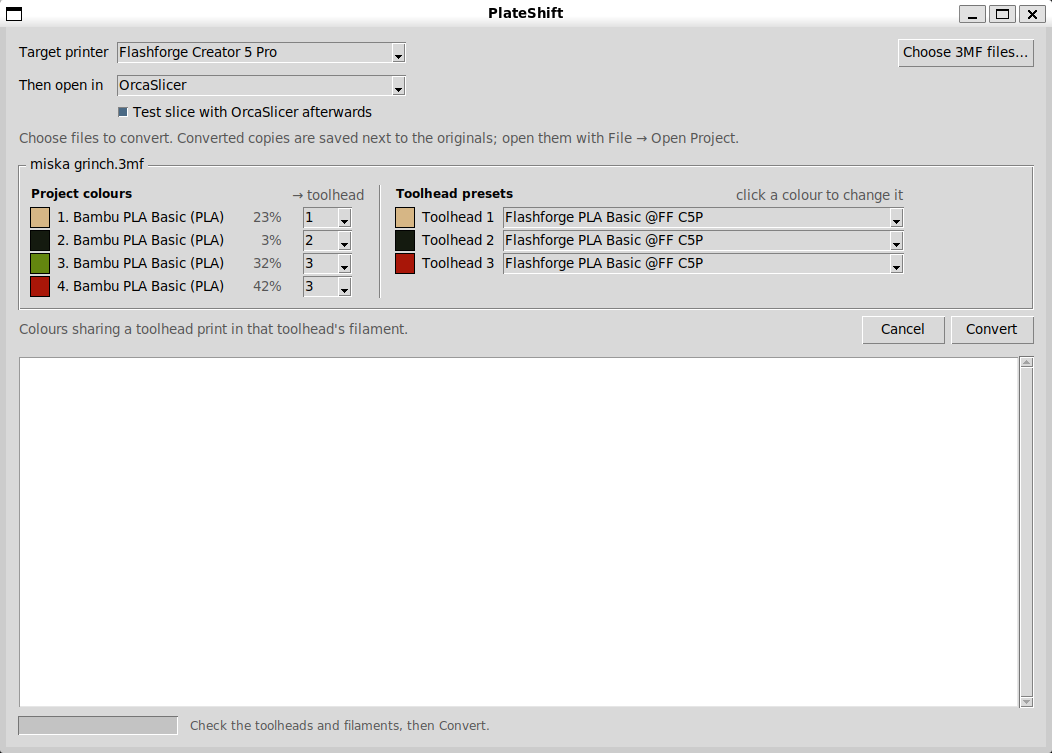
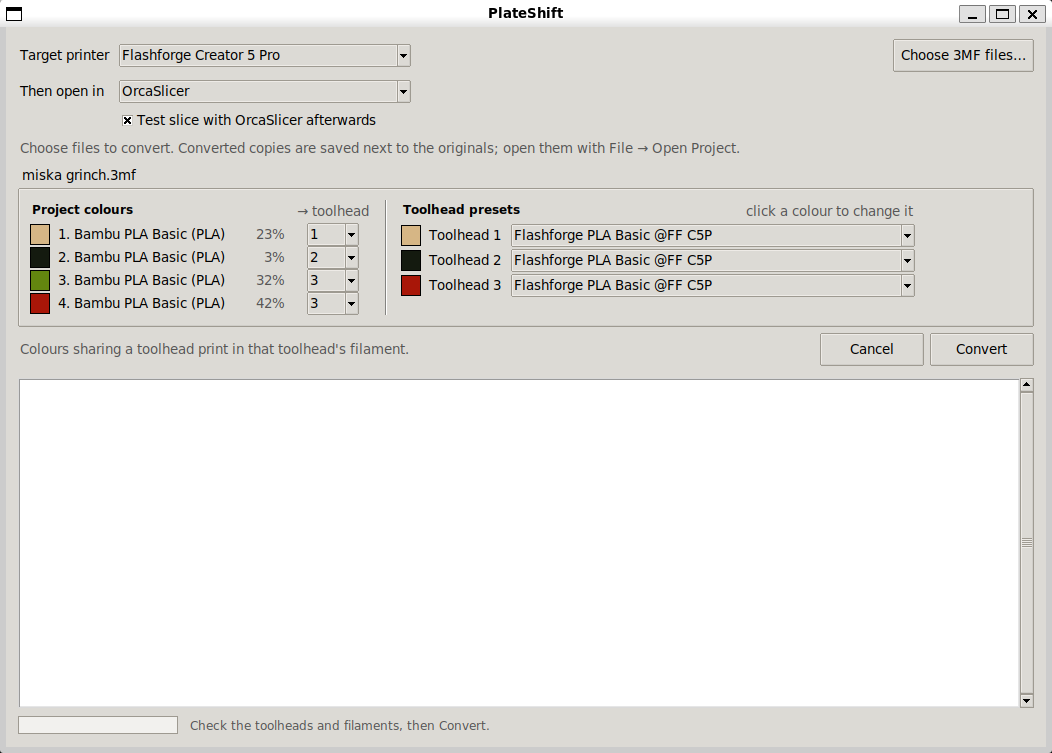
Use the clam theme on Linux, with a visible progress bar, and retake the Linux screenshots

diff --git a/plateshift/gui.py b/plateshift/gui.py
@@ -4,6 +4,7 @@ from __future__ import annotations
 
 import json
 import os
+import sys
 import threading
 import tkinter as tk
 from pathlib import Path
@@ -63,6 +64,17 @@ class App:
         self.tester = test_slicer(self.slicers)
         root.title("PlateShift")
         root.minsize(680, 460)
+        # tk's stock linux look is dated; clam is built in and much cleaner.
+        # windows keeps its native theme
+        style = ttk.Style(root)
+        self.bg = None
+        if sys.platform != "win32" and "clam" in style.theme_names():
+            style.theme_use("clam")
+            self.bg = style.lookup("TFrame", "background")
+            root.configure(bg=self.bg)
+            # clam's bar is near enough the background colour to look empty when full
+            style.configure("Horizontal.TProgressbar", background=OK_COLOUR, troughcolor="#f2f1ee",
+                            bordercolor="#9e9a91", lightcolor=OK_COLOUR, darkcolor=OK_COLOUR)
 
         top = ttk.Frame(root, padding=(12, 12, 12, 4))
         top.pack(fill="x")
@@ -109,7 +121,8 @@ class App:
         status.pack(side="bottom", fill="x")
         self.progress = ttk.Progressbar(status, mode="determinate", length=160)
         self.progress.pack(side="left")
-        self.status = tk.Label(status, text="Ready. Choose files to convert.", anchor="w", fg=MUTED)
+        self.status = tk.Label(status, text="Ready. Choose files to convert.", anchor="w", fg=MUTED,
+                               **({"bg": self.bg} if self.bg else {}))
         self.status.pack(side="left", fill="x", expand=True, padx=10)
         self.show = ttk.Button(status, text="Show in folder", command=self.show_in_folder)
         self.open_button = ttk.Button(status, text="Open", command=self.open_last)
